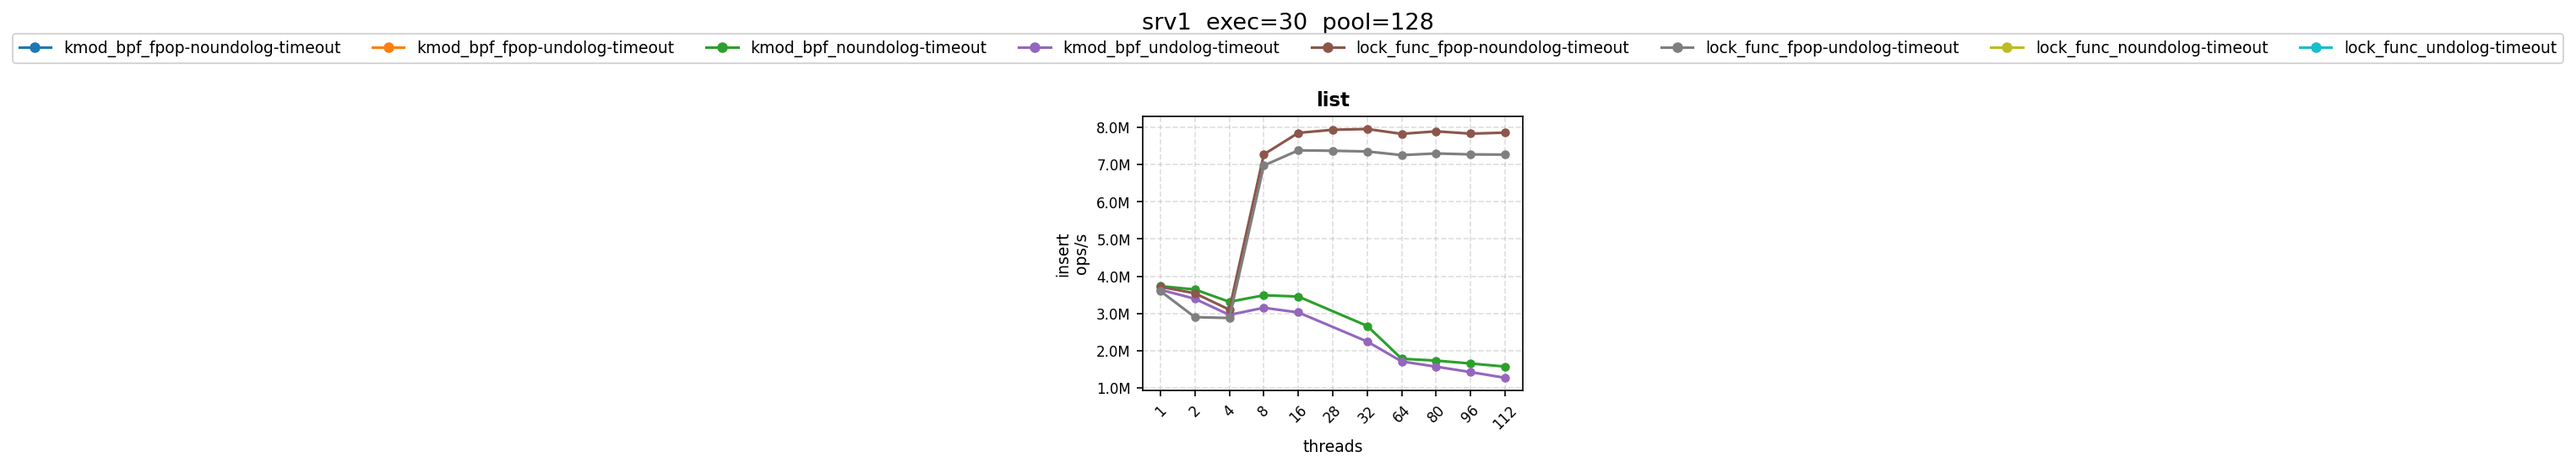
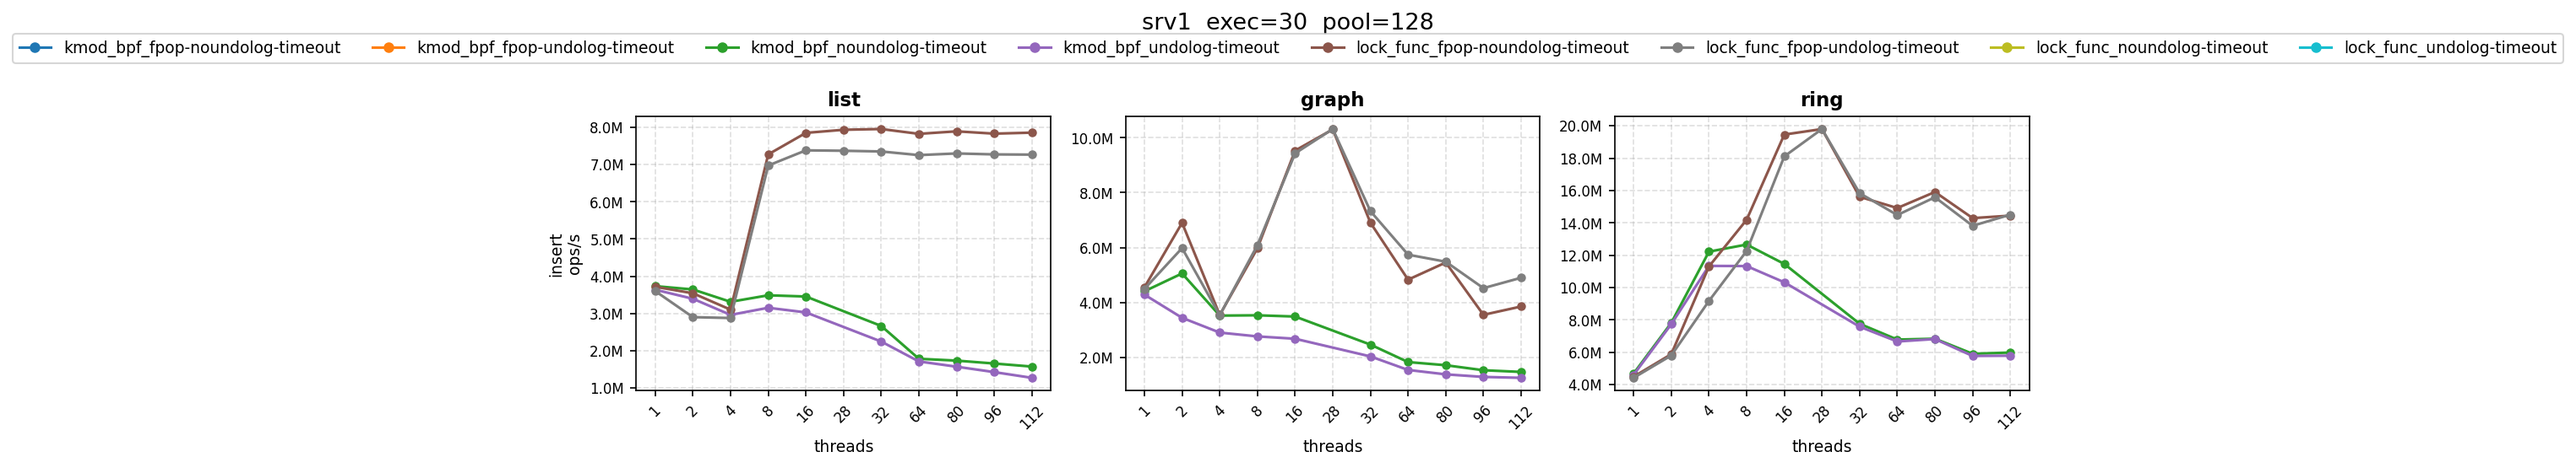
x

diff --git a/tools/testing/selftests/bpf/undolog-results/plot_throughput.py b/tools/testing/selftests/bpf/undolog-results/plot_throughput.py
@@ -7,7 +7,7 @@ import matplotlib.ticker as ticker
 import matplotlib.cm as cm
 
 # ── User-defined config superset (from bench_kmod/bench_spinlock_kmod.c) ─────
-DATA_STRUCTURES = ["list"] # "graph", "list", "ring", "trie"] #"rbtree"
+DATA_STRUCTURES = ["list", "graph", "ring"] #, "trie"] #"rbtree"
 OPERATIONS      = ["insert"] #, "lookup", "update", "delete"]
 VARIANTS        = ["kmod_bpf", "lock_func"] #"undo_log", "kmod", "kmod_bpf"] #"arena"
 THREADS         = [1, 2, 4, 8, 16, 28, 32, 64, 80, 96, 112]
